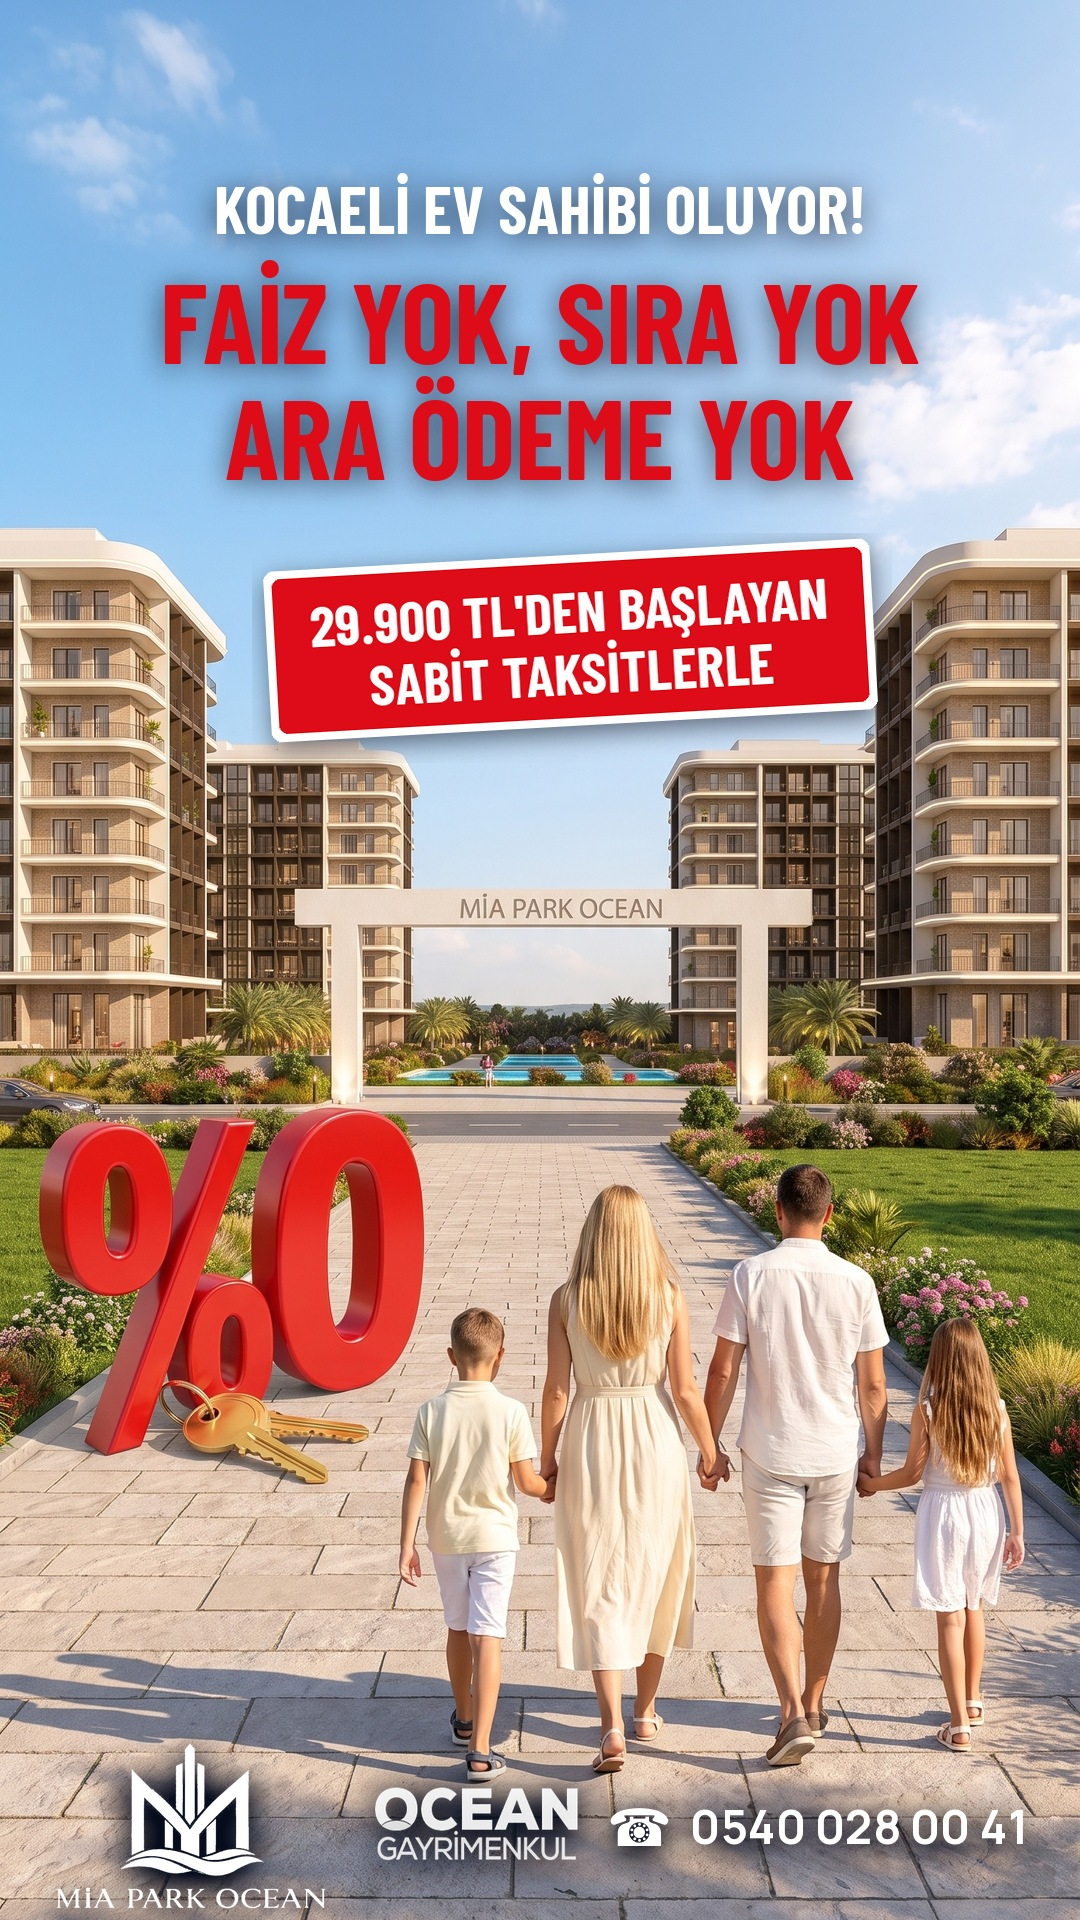
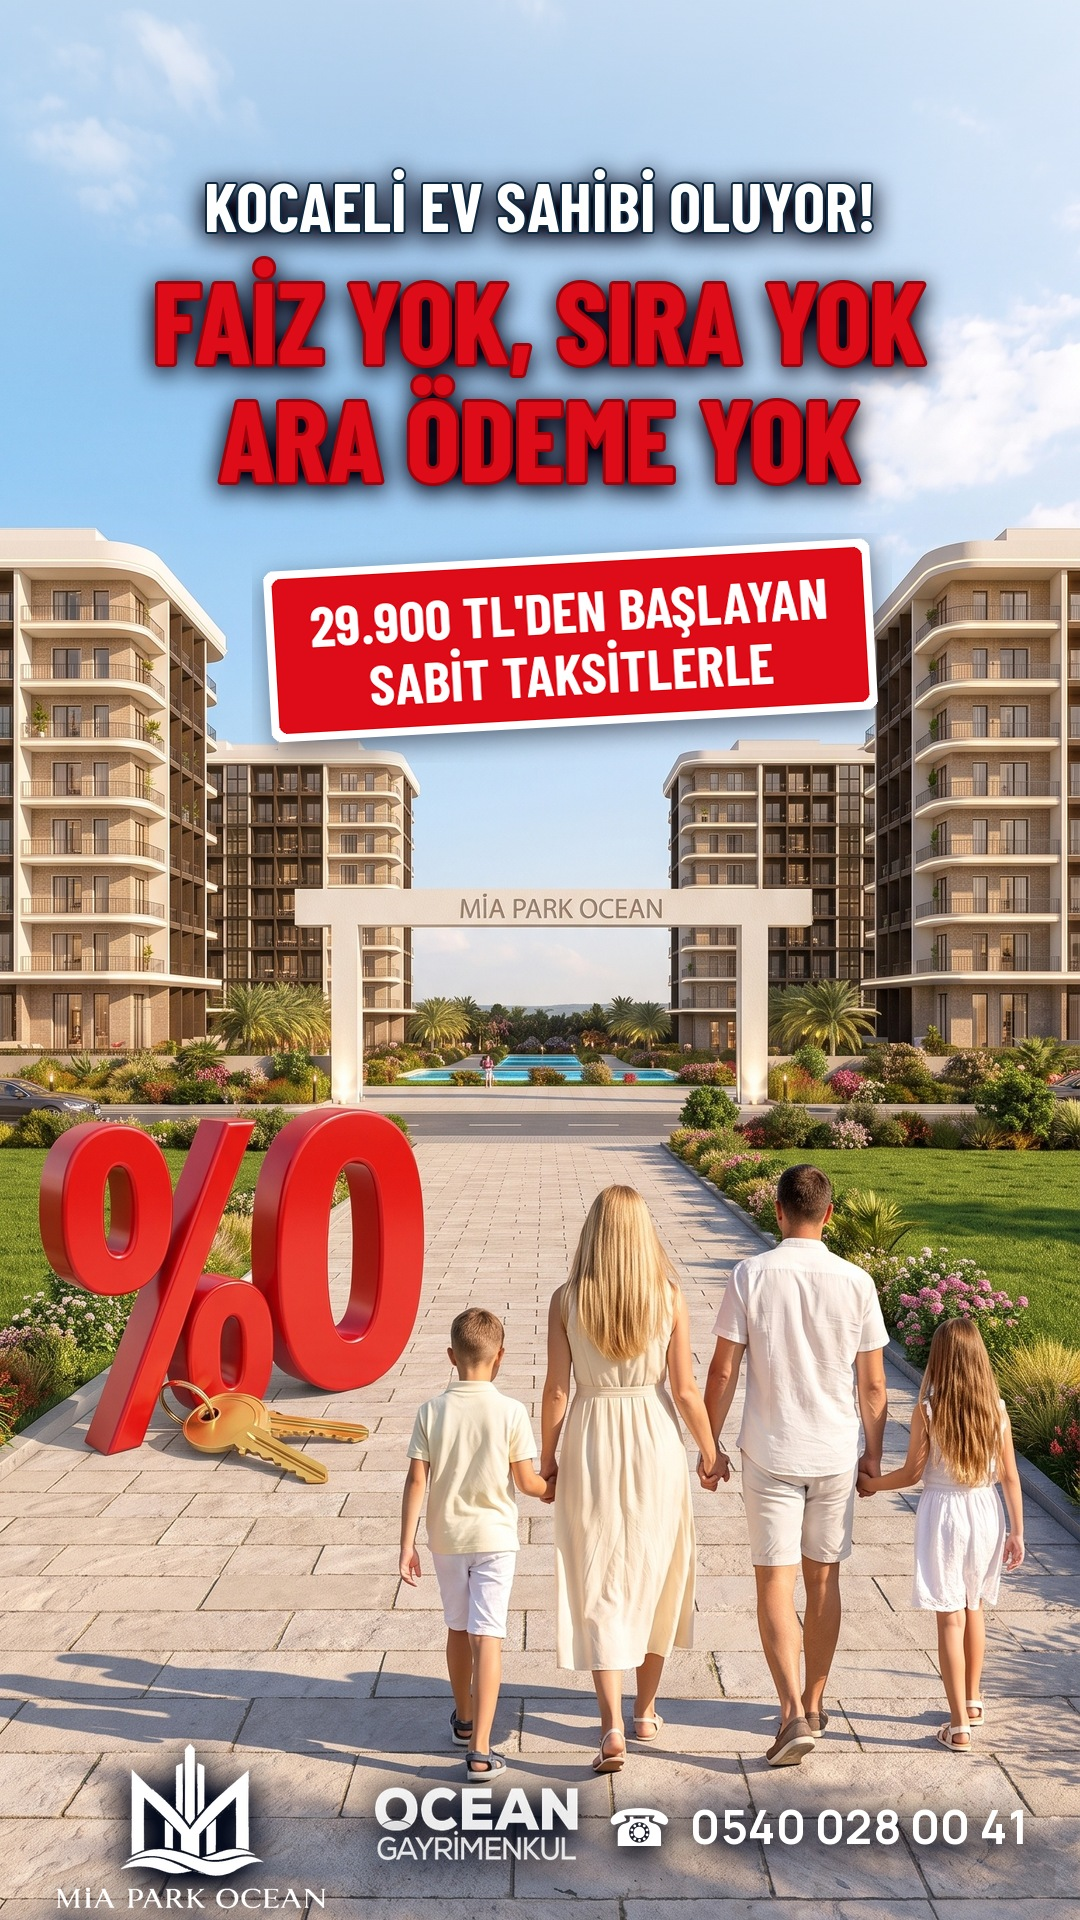
Kampanya story üst yazıları: gök pusu, kontur ve koyu gölge
Claude-Session: https://claude.ai/code/session_014vbWeo5uAXPs6zFw9SmWv2

Changed region(s): [[0.0, 0.0, 1.0, 0.2812]]

diff --git a/scripts/build-kampanya-safak.py b/scripts/build-kampanya-safak.py
@@ -73,19 +73,29 @@ def main():
     im = hero.convert("RGBA")
     dr = ImageDraw.Draw(im)
 
+    # ---- gökyüzüne hafif pus: üst yazılar pastel zeminde patlasın
+    pus = Image.new("L", (1, H), 0)
+    pd = ImageDraw.Draw(pus)
+    for yy in range(560):
+        pd.point((0, yy), fill=int(135 * (1 - yy / 560) ** 1.3))
+    puskat = Image.new("RGBA", (W, H), (255, 255, 255, 0))
+    puskat.putalpha(pus.resize((W, H)))
+    im.alpha_composite(puskat)
+
     # ---- üst blok: beyaz slogan + kırmızı manşet (story üst güvenli
     # alanının altından başlar)
     def manset(d):
-        f0 = barlow(66)
-        d.text((W / 2, 168), "KOCAELİ EV SAHİBİ OLUYOR!", font=f0,
-               fill=BEYAZ, anchor="ma")
-        f1 = barlow(112)
-        d.text((W / 2, 252), "FAİZ YOK, SIRA YOK", font=f1, fill=KIRMIZI,
-               anchor="ma")
+        f0 = barlow(68)
+        d.text((W / 2, 164), "KOCAELİ EV SAHİBİ OLUYOR!", font=f0,
+               fill=BEYAZ, anchor="ma", stroke_width=2,
+               stroke_fill=(14, 42, 66))
+        f1 = barlow(114)
+        d.text((W / 2, 250), "FAİZ YOK, SIRA YOK", font=f1, fill=KIRMIZI,
+               anchor="ma", stroke_width=3, stroke_fill=(158, 2, 12))
         d.text((W / 2, 368), "ARA ÖDEME YOK", font=f1, fill=KIRMIZI,
-               anchor="ma")
+               anchor="ma", stroke_width=3, stroke_fill=(158, 2, 12))
 
-    golge_yaz(im, manset, blur=14, op=110, dy=4)
+    golge_yaz(im, manset, blur=12, op=210, dy=5)
 
     # ---- eğik etiket: beyaz taban + kırmızı üst, iki satır
     et1 = "29.900 TL'DEN BAŞLAYAN"
